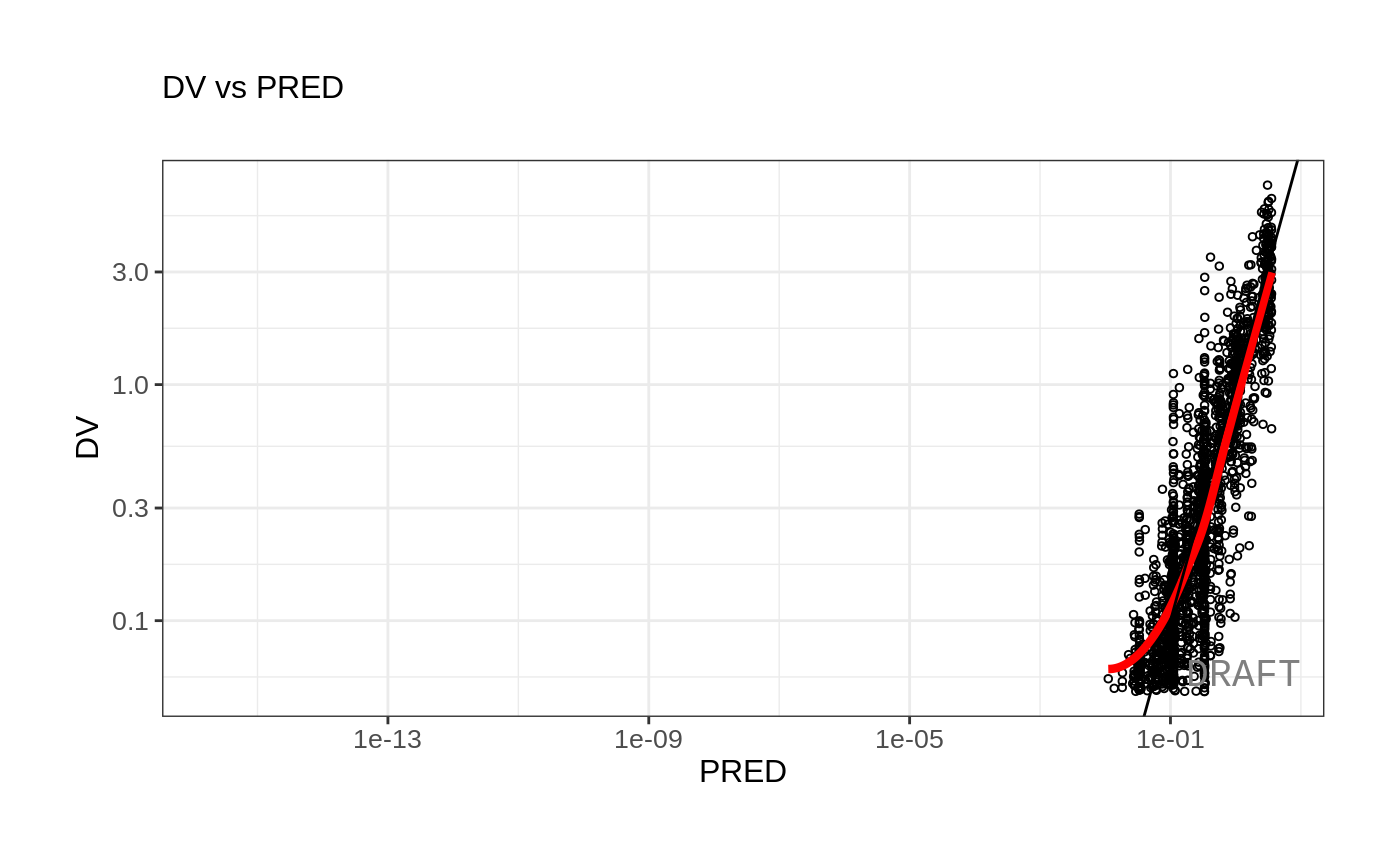
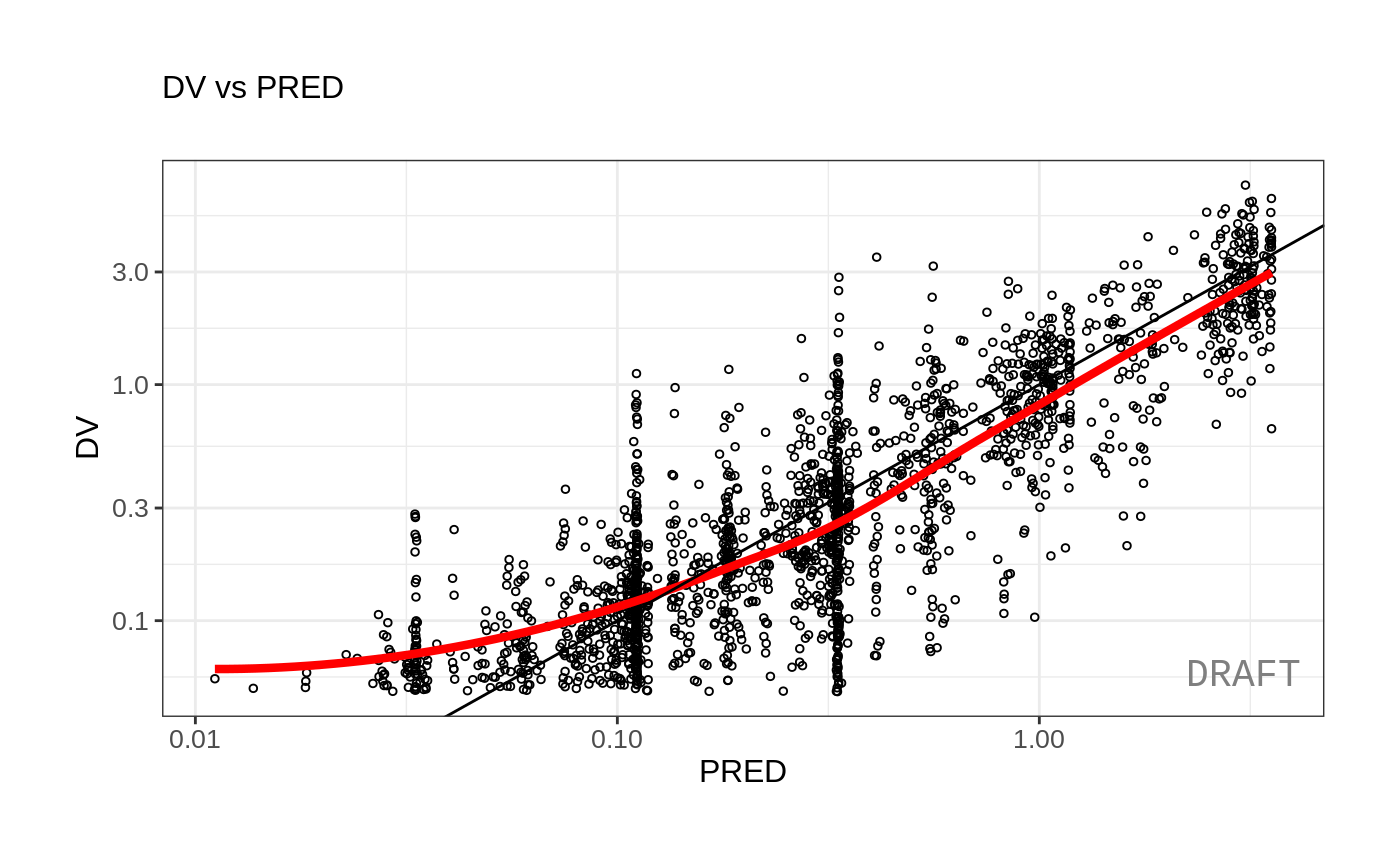
Update xgxr-nlmixr-ggpmx article

diff --git a/docs/articles/xgxr-nlmixr-ggpmx.html b/docs/articles/xgxr-nlmixr-ggpmx.html
@@ -547,10 +547,10 @@ ctr <span class="op">%&gt;%</span><span class="st"> </span><span class="kw"><a h
           <span class="dt">labels =</span> <span class="kw"><a href="https://rdrr.io/r/base/list.html">list</a></span>(<span class="dt">x =</span> <span class="st">"Time after first dose (days)"</span>, <span class="dt">y =</span> <span class="st">"Normalized PDE"</span>))</code></pre></div>
 <p><img src="xgxr-nlmixr-ggpmx_files/figure-html/unnamed-chunk-13-2.png" width="100%"></p>
 <div class="sourceCode"><pre class="sourceCode r"><code class="sourceCode r">
-ctr <span class="op">%&gt;%</span><span class="st"> </span><span class="kw"><a href="https://rdrr.io/pkg/ggPMX/man/residual_scatter.html">pmx_plot_dv_ipred</a></span>(<span class="dt">scale_x_log10=</span><span class="ot">TRUE</span>, <span class="dt">scale_y_log10=</span><span class="ot">TRUE</span>)</code></pre></div>
+ctr <span class="op">%&gt;%</span><span class="st"> </span><span class="kw"><a href="https://rdrr.io/pkg/ggPMX/man/residual_scatter.html">pmx_plot_dv_ipred</a></span>(<span class="dt">scale_x_log10=</span><span class="ot">TRUE</span>, <span class="dt">scale_y_log10=</span><span class="ot">TRUE</span>,<span class="dt">filter=</span>IPRED<span class="op">&gt;</span><span class="fl">0.001</span>)</code></pre></div>
 <p><img src="xgxr-nlmixr-ggpmx_files/figure-html/unnamed-chunk-13-3.png" width="100%"></p>
 <div class="sourceCode"><pre class="sourceCode r"><code class="sourceCode r">
-ctr <span class="op">%&gt;%</span><span class="st"> </span><span class="kw"><a href="https://rdrr.io/pkg/ggPMX/man/residual_scatter.html">pmx_plot_dv_pred</a></span>(<span class="dt">scale_x_log10=</span><span class="ot">TRUE</span>, <span class="dt">scale_y_log10=</span><span class="ot">TRUE</span>)</code></pre></div>
+ctr <span class="op">%&gt;%</span><span class="st"> </span><span class="kw"><a href="https://rdrr.io/pkg/ggPMX/man/residual_scatter.html">pmx_plot_dv_pred</a></span>(<span class="dt">scale_x_log10=</span><span class="ot">TRUE</span>, <span class="dt">scale_y_log10=</span><span class="ot">TRUE</span>,<span class="dt">filter=</span>IPRED<span class="op">&gt;</span><span class="fl">0.001</span>)</code></pre></div>
 <p><img src="xgxr-nlmixr-ggpmx_files/figure-html/unnamed-chunk-13-4.png" width="100%"></p>
 <div class="sourceCode"><pre class="sourceCode r"><code class="sourceCode r">
 ctr <span class="op">%&gt;%</span><span class="st"> </span>pmx_plot_abs_iwres_ipred</code></pre></div>
@@ -564,32 +564,27 @@ ctr <span class="op">%&gt;%</span><span class="st"> </span><span class="kw"><a h
 ctr <span class="op">%&gt;%</span><span class="st"> </span>pmx_plot_iwres_dens</code></pre></div>
 <p><img src="xgxr-nlmixr-ggpmx_files/figure-html/unnamed-chunk-13-7.png" width="100%"></p>
 <div class="sourceCode"><pre class="sourceCode r"><code class="sourceCode r">
-ctr <span class="op">%&gt;%</span><span class="st"> </span>pmx_plot_npde_qq</code></pre></div>
-<p><img src="xgxr-nlmixr-ggpmx_files/figure-html/unnamed-chunk-13-8.png" width="100%"></p>
-<div class="sourceCode"><pre class="sourceCode r"><code class="sourceCode r">
 ctr <span class="op">%&gt;%</span><span class="st"> </span>pmx_plot_eta_qq</code></pre></div>
-<p><img src="xgxr-nlmixr-ggpmx_files/figure-html/unnamed-chunk-13-9.png" width="100%"></p>
+<p><img src="xgxr-nlmixr-ggpmx_files/figure-html/unnamed-chunk-13-8.png" width="100%"></p>
 <div class="sourceCode"><pre class="sourceCode r"><code class="sourceCode r">
 ## 0-12 hour VPC on semi-log scale
 ctr <span class="op">%&gt;%</span><span class="st"> </span><span class="kw"><a href="https://rdrr.io/pkg/ggPMX/man/pmx_plot_vpc.html">pmx_plot_vpc</a></span>(<span class="dt">filter=</span>TIME <span class="op">&gt;</span><span class="st"> </span><span class="dv">0</span> <span class="op">&amp;</span><span class="st"> </span>TIME <span class="op">&lt;</span><span class="st"> </span><span class="dv">12</span>,
                      <span class="dt">scale_y_log10=</span><span class="ot">TRUE</span>, 
                      <span class="dt">bin=</span><span class="kw"><a href="https://rdrr.io/pkg/ggPMX/man/pmx_vpc_bin.html">pmx_vpc_bin</a></span>(<span class="st">"jenks"</span>,<span class="dt">n=</span><span class="dv">5</span>))</code></pre></div>
-<p><img src="xgxr-nlmixr-ggpmx_files/figure-html/unnamed-chunk-13-10.png" width="100%"></p>
+<p><img src="xgxr-nlmixr-ggpmx_files/figure-html/unnamed-chunk-13-9.png" width="100%"></p>
 <div class="sourceCode"><pre class="sourceCode r"><code class="sourceCode r">
 ## 0-12 hour VPC on linear scale
 ctr <span class="op">%&gt;%</span><span class="st"> </span><span class="kw"><a href="https://rdrr.io/pkg/ggPMX/man/pmx_plot_vpc.html">pmx_plot_vpc</a></span>(<span class="dt">filter=</span>TIME <span class="op">&gt;</span><span class="st"> </span><span class="dv">0</span> <span class="op">&amp;</span><span class="st"> </span>TIME <span class="op">&lt;</span><span class="st"> </span><span class="dv">12</span>,
                      <span class="dt">scale_y_log10=</span><span class="ot">FALSE</span>, 
                      <span class="dt">bin=</span><span class="kw"><a href="https://rdrr.io/pkg/ggPMX/man/pmx_vpc_bin.html">pmx_vpc_bin</a></span>(<span class="st">"jenks"</span>,<span class="dt">n=</span><span class="dv">5</span>))</code></pre></div>
-<p><img src="xgxr-nlmixr-ggpmx_files/figure-html/unnamed-chunk-13-11.png" width="100%"></p>
-<div class="sourceCode"><pre class="sourceCode r"><code class="sourceCode r">
+<p><img src="xgxr-nlmixr-ggpmx_files/figure-html/unnamed-chunk-13-10.png" width="100%"></p>
+<div class="sourceCode"><pre class="sourceCode r"><code class="sourceCode r">                     
 ctr <span class="op">%&gt;%</span><span class="st"> </span>pmx_plot_eta_box</code></pre></div>
-<p><img src="xgxr-nlmixr-ggpmx_files/figure-html/unnamed-chunk-13-12.png" width="100%"></p>
-<div class="sourceCode"><pre class="sourceCode r"><code class="sourceCode r">
-ctr <span class="op">%&gt;%</span><span class="st"> </span>pmx_plot_eta_hist</code></pre></div>
-<p><img src="xgxr-nlmixr-ggpmx_files/figure-html/unnamed-chunk-13-13.png" width="100%"></p>
-<div class="sourceCode"><pre class="sourceCode r"><code class="sourceCode r">
-ctr <span class="op">%&gt;%</span><span class="st"> </span>pmx_plot_eta_matrix</code></pre></div>
-<p><img src="xgxr-nlmixr-ggpmx_files/figure-html/unnamed-chunk-13-14.png" width="100%"></p>
+<p><img src="xgxr-nlmixr-ggpmx_files/figure-html/unnamed-chunk-13-11.png" width="100%"></p>
+<div class="sourceCode"><pre class="sourceCode r"><code class="sourceCode r">ctr <span class="op">%&gt;%</span><span class="st"> </span>pmx_plot_eta_hist</code></pre></div>
+<p><img src="xgxr-nlmixr-ggpmx_files/figure-html/unnamed-chunk-14-1.png" width="100%"></p>
+<div class="sourceCode"><pre class="sourceCode r"><code class="sourceCode r">ctr <span class="op">%&gt;%</span><span class="st"> </span>pmx_plot_eta_matrix</code></pre></div>
+<p><img src="xgxr-nlmixr-ggpmx_files/figure-html/unnamed-chunk-15-1.png" width="100%"></p>
 <div class="sourceCode"><pre class="sourceCode r"><code class="sourceCode r">
 ## Create a report of all the plots you generated from the controller
 <span class="cf">if</span> (<span class="op">!</span><span class="kw"><a href="https://rdrr.io/r/base/files.html">file.exists</a></span>(<span class="st">"nlmixr_report.docx"</span>)){
@@ -597,7 +592,7 @@ ctr <span class="op">%&gt;%</span><span class="st"> </span>pmx_plot_eta_matrix</
 }
 <span class="cf">if</span> (<span class="kw"><a href="https://rdrr.io/r/base/files.html">file.exists</a></span>(<span class="st">"nlmixr_report.Rmd"</span>))
     <span class="kw"><a href="https://rdrr.io/r/base/unlink.html">unlink</a></span>(<span class="st">"nlmixr_report.Rmd"</span>) <span class="co"># Remove this file so it isn't confused with vignettes</span></code></pre></div>
-<p>This creates 2 reports, both a <a href="https://github.com/nlmixrdevelopment/nlmixr/raw/master/vignettes/nlmixr_report.pdf">pdf</a> and <a href="https://github.com/nlmixrdevelopment/nlmixr/raw/master/vignettes/nlmixr_report.docx">word</a> document.</p>
+<p>This creates two reports with default settings, both a <a href="https://github.com/nlmixrdevelopment/nlmixr/raw/master/vignettes/nlmixr_report.pdf">pdf</a> and <a href="https://github.com/nlmixrdevelopment/nlmixr/raw/master/vignettes/nlmixr_report.docx">word</a> document. The report can be customized by editting the default template to include project specificities (change labels, stratifications, filtering, etc.).</p>
 </div>
 <div id="simulation-of-a-new-scenario-with-rxode" class="section level1">
 <h1 class="hasAnchor">
@@ -640,7 +635,7 @@ ev<span class="op">$</span><span class="kw"><a href="https://rdrr.io/pkg/RxODE/m
 <p>If you wish to simulate <code>100</code> patients repeated by <code>100</code> different theoretical studies where you simulate from the uncertainty in the fixed parameter estimates and covariances you can very easily with nlmixr/RxODE:</p>
 <div class="sourceCode"><pre class="sourceCode r"><code class="sourceCode r"><span class="kw"><a href="https://rdrr.io/r/base/Random.html">set.seed</a></span>(<span class="dv">100</span>)
 sim1 &lt;-<span class="st"> </span><span class="kw"><a href="https://rdrr.io/r/stats/simulate.html">simulate</a></span>(cmt2fit.logn, <span class="dt">events=</span>ev, <span class="dt">nSub=</span><span class="dv">100</span>, <span class="dt">nStud=</span><span class="dv">100</span>)
-<span class="co">#&gt; [====|====|====|====|====|====|====|====|====|====] 0:02:02</span>
+<span class="co">#&gt; [====|====|====|====|====|====|====|====|====|====] 0:01:54</span>
 
 <span class="kw"><a href="https://rdrr.io/r/base/print.html">print</a></span>(sim1)
 <span class="co">#&gt; ▂▂▂▂▂▂▂▂▂▂▂▂▂▂▂▂▂▂▂▂▂▂▂▂▂▂▂ Solved RxODE object ▂▂▂▂▂▂▂▂▂▂▂▂▂▂▂▂▂▂▂▂▂▂▂▂▂▂▂</span>
@@ -742,13 +737,13 @@ p1 &lt;-<span class="st"> </span><span class="kw"><a href="https://rdrr.io/r/gra
 ## you can tweak the plot by the standard ggplot commands
 p1 <span class="op">+</span><span class="st"> </span><span class="kw"><a href="https://ggplot2.tidyverse.org/reference/labs.html">xlab</a></span>(<span class="st">"Time (hr)"</span>) <span class="op">+</span><span class="st"> </span>
 <span class="st">    </span><span class="kw"><a href="https://ggplot2.tidyverse.org/reference/labs.html">ylab</a></span>(<span class="st">"Simulated Concentrations of TID steady state"</span>)</code></pre></div>
-<p><img src="xgxr-nlmixr-ggpmx_files/figure-html/unnamed-chunk-19-1.png" width="100%"></p>
+<p><img src="xgxr-nlmixr-ggpmx_files/figure-html/unnamed-chunk-21-1.png" width="100%"></p>
 <div class="sourceCode"><pre class="sourceCode r"><code class="sourceCode r">
 <span class="co"># And put the same plot on a semi-log plot</span>
 p1 <span class="op">+</span><span class="st"> </span><span class="kw"><a href="https://ggplot2.tidyverse.org/reference/labs.html">xlab</a></span>(<span class="st">"Time (hr)"</span>) <span class="op">+</span><span class="st"> </span>
 <span class="st">    </span><span class="kw"><a href="https://ggplot2.tidyverse.org/reference/labs.html">ylab</a></span>(<span class="st">"Simulated Concentrations of TID steady state"</span>) <span class="op">+</span>
 <span class="st">    </span><span class="kw"><a href="https://rdrr.io/pkg/xgxr/man/xgx_scale_y_log10.html">xgx_scale_y_log10</a></span>()</code></pre></div>
-<p><img src="xgxr-nlmixr-ggpmx_files/figure-html/unnamed-chunk-19-2.png" width="100%"></p>
+<p><img src="xgxr-nlmixr-ggpmx_files/figure-html/unnamed-chunk-21-2.png" width="100%"></p>
 <p>For more complex simulations with variability you can also <a href="https://nlmixrdevelopment.github.io/RxODE/articles/RxODE-event-table.html#add-doses-and-samples-within-a-sampling-window">simulate dosing windows and sampling windows</a> and use any tool you want to summarize it in the way you wish.</p>
 </div>
   </div>
